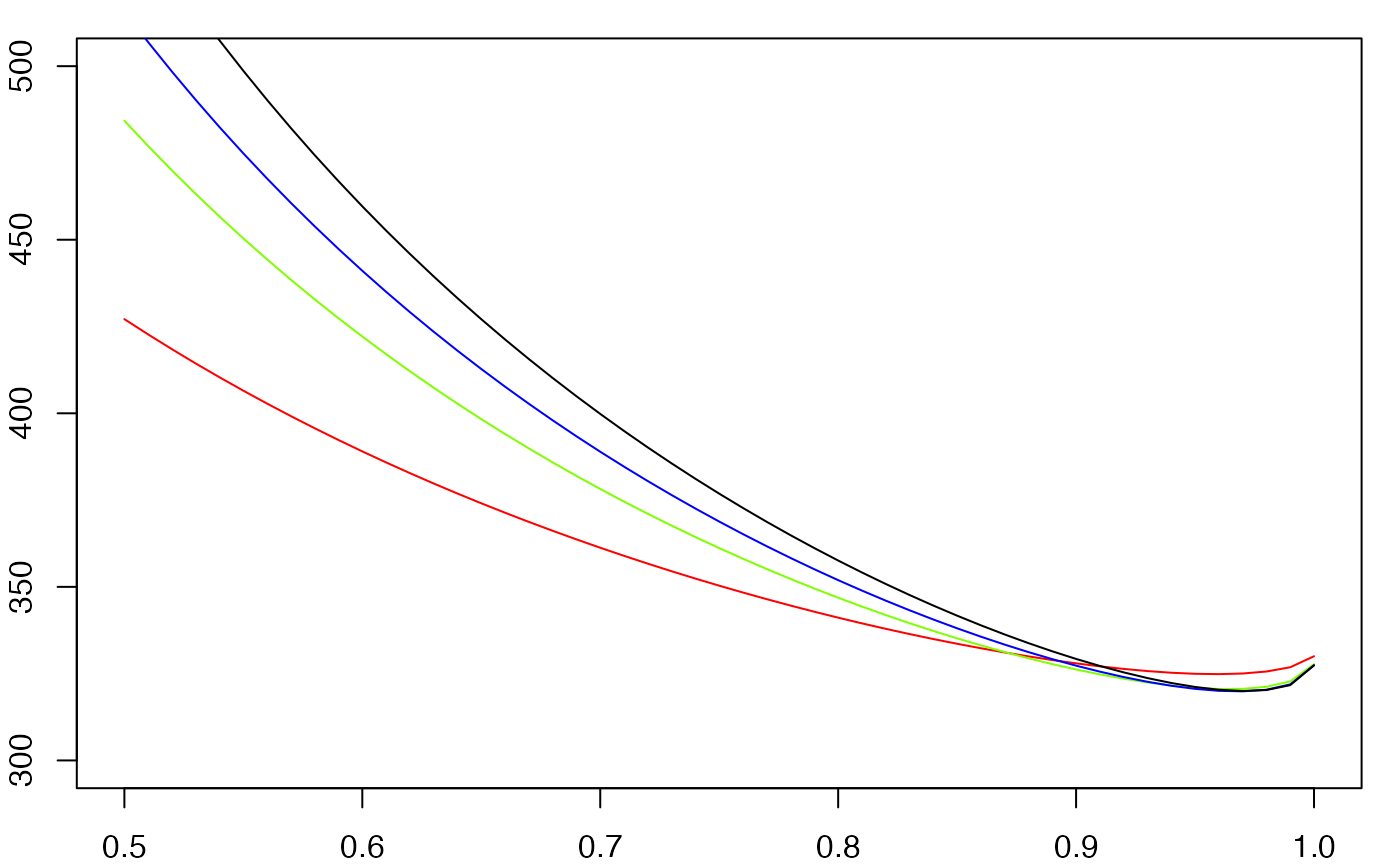
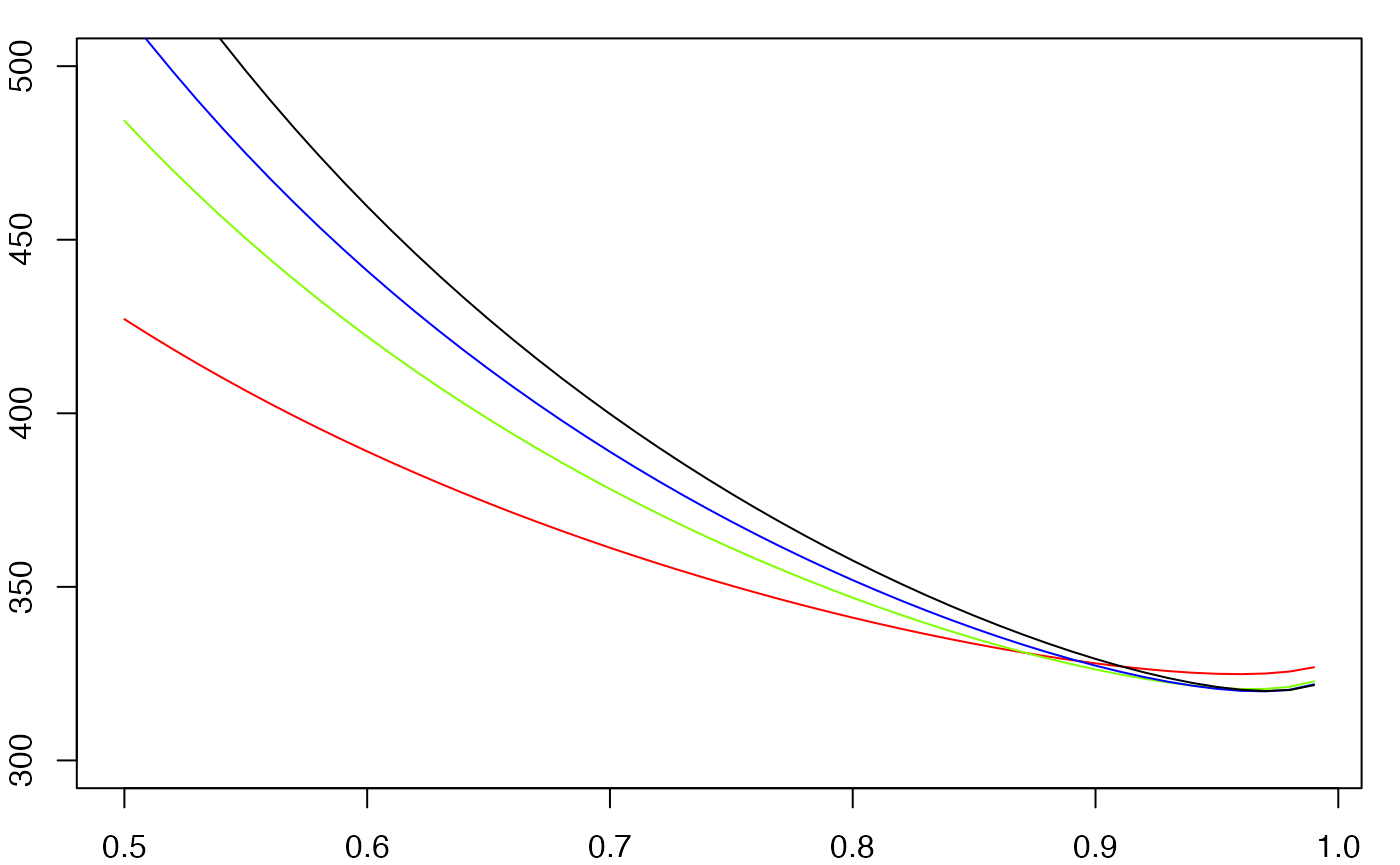
Built site for kgrams: 0.1.1.9000@7de86df

diff --git a/articles/kgrams.html b/articles/kgrams.html
@@ -372,7 +372,7 @@ H = - \dfrac{1}{W}\sum _s\ \ln (\text {Prob}(s))
 <span class="co">#&gt; [1] 376.8554</span></code></pre></div>
 <p>We can use perplexity to tune our model parameter <span class="math inline">\(D\)</span>. We compute perplexity over a grid of values for <code>D</code> and plot the results. We do this for the <span class="math inline">\(k\)</span>-gram models with <span class="math inline">\(k \in \{2, 3, 4, 5\}\)</span>:</p>
 <div class="sourceCode" id="cb19"><pre class="downlit sourceCode r">
-<code class="sourceCode R"><span class="va">D_grid</span> <span class="op">&lt;-</span> <span class="fu"><a href="https://rdrr.io/r/base/seq.html">seq</a></span><span class="op">(</span>from <span class="op">=</span> <span class="fl">0.5</span>, to <span class="op">=</span> <span class="fl">1.0</span>, by <span class="op">=</span> <span class="fl">0.01</span><span class="op">)</span>
+<code class="sourceCode R"><span class="va">D_grid</span> <span class="op">&lt;-</span> <span class="fu"><a href="https://rdrr.io/r/base/seq.html">seq</a></span><span class="op">(</span>from <span class="op">=</span> <span class="fl">0.5</span>, to <span class="op">=</span> <span class="fl">0.99</span>, by <span class="op">=</span> <span class="fl">0.01</span><span class="op">)</span>
 <span class="va">FUN</span> <span class="op">&lt;-</span> <span class="kw">function</span><span class="op">(</span><span class="va">D</span>, <span class="va">N</span><span class="op">)</span> <span class="op">{</span>
         <span class="fu"><a href="../reference/parameters.html">param</a></span><span class="op">(</span><span class="va">kn</span>, <span class="st">"N"</span><span class="op">)</span> <span class="op">&lt;-</span> <span class="va">N</span>
         <span class="fu"><a href="../reference/parameters.html">param</a></span><span class="op">(</span><span class="va">kn</span>, <span class="st">"D"</span><span class="op">)</span> <span class="op">&lt;-</span> <span class="va">D</span>
